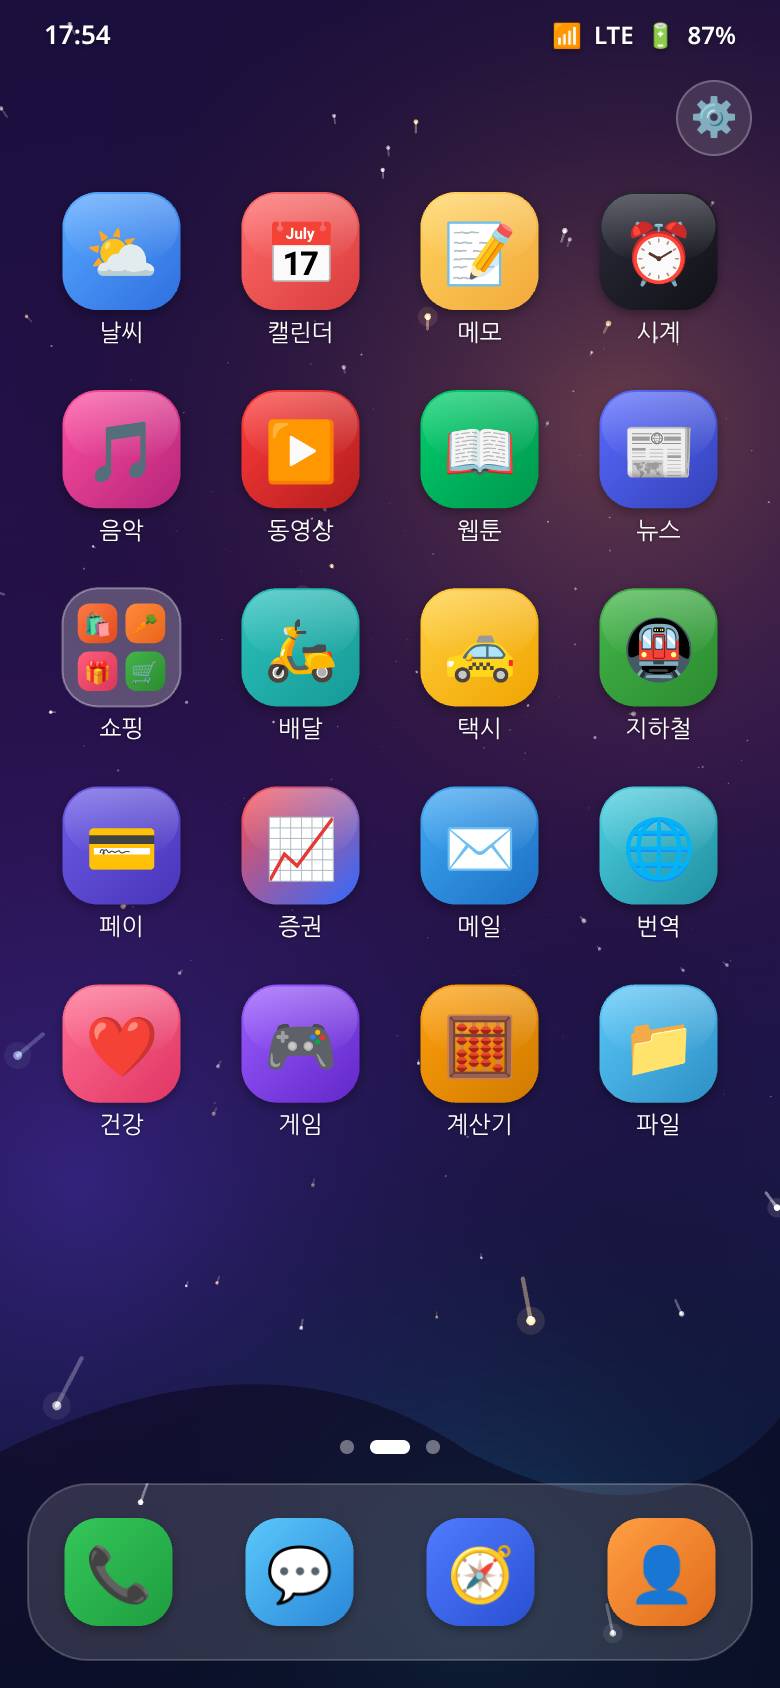
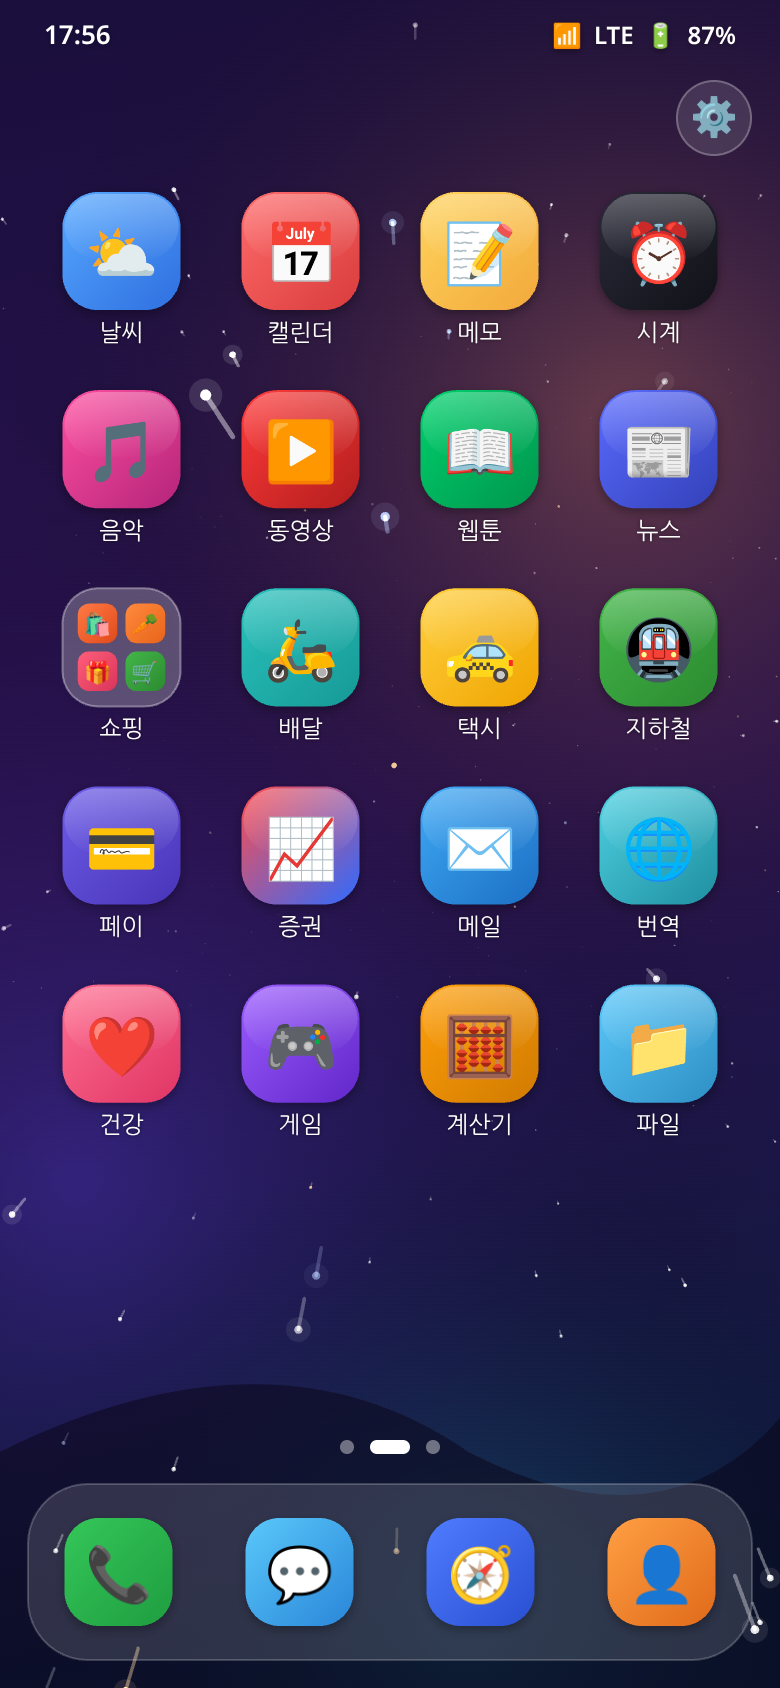
v5: 폴더 열면 회전 캐러셀(관성·스냅, 아래로 내려 닫기), 폴더당 6~8개 앱

diff --git a/index.html b/index.html
@@ -7,7 +7,7 @@
 <meta http-equiv="Cache-Control" content="no-cache, no-store, must-revalidate">
 <meta http-equiv="Pragma" content="no-cache">
 <meta http-equiv="Expires" content="0">
-<title>뉴니버스 · 모래 전환 시제품 v4</title>
+<title>뉴니버스 · 모래 전환 시제품 v5</title>
 <style>
   *{box-sizing:border-box;-webkit-tap-highlight-color:transparent;margin:0;padding:0}
   html,body{height:100%;background:#05040d;overflow:hidden;font-family:system-ui,-apple-system,"Noto Sans KR","Apple SD Gothic Neo","Malgun Gothic",sans-serif;color:#fff;overscroll-behavior:none}
@@ -47,6 +47,20 @@
   #stats{font-size:11px;color:#8e88b0;margin-top:12px;text-align:center}
   #hint{position:absolute;left:0;right:0;text-align:center;font-size:12px;color:rgba(255,255,255,.75);z-index:5;pointer-events:none;transition:opacity 1s}
   #hint-desktop{display:none;position:fixed;bottom:12px;left:0;right:0;text-align:center;color:#777;font-size:12px}
+  #fold{position:absolute;inset:0;z-index:8;display:none;touch-action:none}
+  #fold .bd{position:absolute;inset:0;background:rgba(8,6,22,.45);backdrop-filter:blur(16px);-webkit-backdrop-filter:blur(16px);opacity:0;transition:opacity .35s}
+  #fold.open .bd{opacity:1}
+  #fold .wrap{position:absolute;inset:0;transition:transform .42s cubic-bezier(.2,.9,.25,1.05),opacity .3s;opacity:0}
+  #fold.open .wrap{opacity:1}
+  #fold h2{position:absolute;left:0;right:0;top:20%;text-align:center;font-size:24px;font-weight:700;text-shadow:0 2px 10px rgba(0,0,0,.5)}
+  #fold .stage{position:absolute;left:0;right:0;top:50%;height:0;perspective:900px}
+  #fold .cd{position:absolute;left:50%;top:0;width:150px;height:150px;margin:-75px 0 0 -75px;border-radius:40px;display:flex;align-items:center;justify-content:center;font-size:76px;box-shadow:0 18px 40px rgba(0,0,0,.45);will-change:transform,opacity;backface-visibility:hidden}
+  #fold .cd::after{content:'';position:absolute;inset:0;border-radius:inherit;background:linear-gradient(rgba(255,255,255,.3),rgba(255,255,255,0) 55%);pointer-events:none}
+  #fold .lbl{position:absolute;left:0;right:0;top:calc(50% + 110px);text-align:center;font-size:19px;font-weight:600;text-shadow:0 2px 8px rgba(0,0,0,.6)}
+  #fold .fdots{position:absolute;left:0;right:0;top:calc(50% + 148px);display:flex;justify-content:center;gap:6px}
+  #fold .fdots i{width:6px;height:6px;border-radius:3px;background:rgba(255,255,255,.35);transition:all .2s}
+  #fold .fdots i.on{background:#fff;width:16px}
+  #fold .tip{position:absolute;left:0;right:0;bottom:16%;text-align:center;font-size:12px;color:rgba(255,255,255,.6)}
   #nogl{position:absolute;inset:0;display:none;align-items:center;justify-content:center;text-align:center;padding:30px;z-index:20;background:#0b0820}
 </style>
 </head>
@@ -60,6 +74,7 @@
   <div id="hint">← 화면을 옆으로 밀어보세요 →</div>
   <div id="dots"><i class="on"></i><i></i><i></i></div>
   <div id="safe" style="position:absolute;visibility:hidden;padding-bottom:env(safe-area-inset-bottom)"></div>
+  <div id="fold"><div class="bd"></div><div class="wrap"><h2></h2><div class="stage"></div><div class="lbl"></div><div class="fdots"></div><div class="tip">좌우로 휙 돌려보세요 · 아래로 내리거나 바깥을 누르면 닫혀요</div></div></div>
   <div id="toast"></div>
   <div id="sheet">
     <h3>모래 전환 설정 <button id="close">✕</button></h3>
@@ -87,7 +102,7 @@ const $=id=>document.getElementById(id);
 // ---------- 설정 ----------
 const DEF={style:'wind',wind:1.0,size:2.0,turb:1.0,dur:1.7,glow:0.5,star:0.6};
 let S=Object.assign({},DEF);
-try{Object.assign(S,JSON.parse(localStorage.getItem('nv_sand4')||'{}'))}catch(e){}
+try{Object.assign(S,JSON.parse(localStorage.getItem('nv_sand5')||'{}'))}catch(e){}
 const weak=(navigator.hardwareConcurrency||4)<=4||(navigator.deviceMemory||4)<=3;
 let CAP=weak?40000:90000;
 
@@ -96,17 +111,17 @@ const A=(n,e,c1,c2,t)=>({n,e,c1,c2,t});
 const F=(n,items)=>({n,folder:true,items});
 const PAGES=[
   {widget:true,apps:[
-    A('카카오톡','💬','#FEE500','#F5C800','#3a1d1d'),A('네이버','N','#03C75A','#02a84b'),F('금융',[A('은행','🏦','#2f6bff','#1946c7'),A('페이','💳','#6c5ce7','#4834b8'),A('증권','📈','#ff4d4d','#2f6bff'),A('보험','🛡','#26a69a','#00796b')]),A('정부24','🏛','#3a7bd5','#1d4f9a'),
+    A('카카오톡','💬','#FEE500','#F5C800','#3a1d1d'),A('네이버','N','#03C75A','#02a84b'),F('금융',[A('은행','🏦','#2f6bff','#1946c7'),A('페이','💳','#6c5ce7','#4834b8'),A('증권','📈','#ff4d4d','#2f6bff'),A('보험','🛡','#26a69a','#00796b'),A('카드','💳','#ff7a45','#e04a1a'),A('가계부','📒','#43b649','#2b8a30'),A('환전','💱','#4dd0e1','#1f8fa0'),A('코인','🪙','#ffca28','#ff8f00','#222')]),A('정부24','🏛','#3a7bd5','#1d4f9a'),
     A('카메라','📷','#4a4a55','#26262e'),A('사진','🖼','#ff9a62','#ff5e7a'),A('지도','🗺','#34c3a0','#1a8c74'),A('설정','⚙','#8e8e99','#5d5d69')]},
   {apps:[
     A('날씨','⛅','#56a8ff','#2f6fe0'),A('캘린더','📅','#ff6b6b','#d93c3c'),A('메모','📝','#ffd45e','#f2a93b'),A('시계','⏰','#2b2b3a','#111118'),
     A('음악','🎵','#ff4fa0','#b4247a'),A('동영상','▶','#ff3b3b','#b31d1d'),A('웹툰','📖','#00d06c','#00964d'),A('뉴스','📰','#5a6bff','#3341b8'),
-    F('쇼핑',[A('쇼핑','🛍','#ff7a45','#e04a1a'),A('중고거래','🥕','#ff8a3d','#e8641a'),A('선물','🎁','#ff5e7a','#d9345a'),A('장보기','🛒','#43b649','#2b8a30')]),A('배달','🛵','#2ac1bc','#169a96'),A('택시','🚕','#ffcf3d','#f0a400','#222'),A('지하철','🚇','#43b649','#2b8a30'),
+    F('쇼핑',[A('쇼핑','🛍','#ff7a45','#e04a1a'),A('중고거래','🥕','#ff8a3d','#e8641a'),A('선물','🎁','#ff5e7a','#d9345a'),A('장보기','🛒','#43b649','#2b8a30'),A('패션','👗','#9b5cff','#6227c9'),A('뷰티','💄','#ff6f91','#e03565'),A('가구','🛋','#a1887f','#6d4c41')]),A('배달','🛵','#2ac1bc','#169a96'),A('택시','🚕','#ffcf3d','#f0a400','#222'),A('지하철','🚇','#43b649','#2b8a30'),
     A('페이','💳','#6c5ce7','#4834b8'),A('증권','📈','#ff4d4d','#2f6bff'),A('메일','✉','#3fa9f5','#1c6fc4'),A('번역','🌐','#4dd0e1','#1f8fa0'),
     A('건강','❤','#ff6f91','#e03565'),A('게임','🎮','#9b5cff','#6227c9'),A('계산기','🧮','#ff9f0a','#d07a00'),A('파일','📁','#5ac8fa','#2e8fc4')]},
   {card:true,apps:[
     A('병원예약','🏥','#4fc3f7','#1e88c7'),A('학교','🎓','#7e57c2','#4d2c91'),A('국민연금','🪙','#26a69a','#00796b'),A('주민센터','🏢','#78909c','#455a64'),
-    A('녹음','🎙','#ef5350','#b71c1c'),F('도구',[A('손전등','🔦','#ffca28','#ff8f00','#222'),A('스캐너','📄','#66bb6a','#2e7d32'),A('나침반','🧭','#4f7cff','#2a4fd1'),A('자','📏','#ffd45e','#f2a93b')]),A('뉴니버스','🌌','#e6b85c','#7b3fe4')]}
+    A('녹음','🎙','#ef5350','#b71c1c'),F('도구',[A('손전등','🔦','#ffca28','#ff8f00','#222'),A('스캐너','📄','#66bb6a','#2e7d32'),A('나침반','🧭','#4f7cff','#2a4fd1'),A('자','📏','#ffd45e','#f2a93b'),A('녹화','📹','#ef5350','#b71c1c'),A('타이머','⏱','#5ac8fa','#2e8fc4')]),A('뉴니버스','🌌','#e6b85c','#7b3fe4')]}
 ];
 const DOCK=[A('전화','📞','#34c759','#1f9d40'),A('메시지','💬','#5ac8fa','#2a86d9'),A('인터넷','🧭','#4f7cff','#2a4fd1'),A('연락처','👤','#ff9f43','#e06a1a')];
 
@@ -197,7 +212,7 @@ function renderPage(pi){
   const top=gridTop(pi);
   P.apps.forEach((a,i)=>{
     const col=i%cols,row=(i/cols)|0,x=pad+col*cw+(cw-s)/2,y=top+row*rowH;
-    (a.folder?drawFolder:drawIcon)(c,a,x,y,s);hitRects[pi].push({x,y,w:s,h:s+24,n:a.folder?`${a.n} 폴더 (${a.items.map(i=>i.n).join('·')})`:a.n});
+    (a.folder?drawFolder:drawIcon)(c,a,x,y,s);hitRects[pi].push({x,y,w:s,h:s+24,n:a.n,f:a.folder?a:null});
   });
   const dt=dockTop(),dx=14,dw=W-28,dh=88;
   c.save();rr(c,dx,dt,dw,dh,30);c.fillStyle='rgba(255,255,255,.14)';c.fill();c.strokeStyle='rgba(255,255,255,.2)';c.lineWidth=1;c.stroke();c.restore();
@@ -623,7 +638,7 @@ function setDots(){[...$('dots').children].forEach((d,i)=>d.classList.toggle('on
 // ---------- 입력 ----------
 let sx=0,sy=0,lx=0,lt=0,vx=0,moved=false,crossed=false,pid=null;
 phone.addEventListener('pointerdown',e=>{
-  if(e.target.closest('#sheet,#gear'))return;
+  if(e.target.closest('#sheet,#gear,#fold'))return;
   if($('sheet').classList.contains('open')){toggleSheet(false);return}
   if(anim){anim.t0=-1e9;loop(performance.now())}
   pid=e.pointerId;phone.setPointerCapture(pid);
@@ -652,11 +667,82 @@ phone.addEventListener('pointerup',up);phone.addEventListener('pointercancel',up
 function tap(e){
   const r=phone.getBoundingClientRect(),x=e.clientX-r.left,y=e.clientY-r.top;
   const h=(hitRects[cur]||[]).find(o=>x>=o.x&&x<=o.x+o.w&&y>=o.y&&y<=o.y+o.h);
-  if(h)toast(`${h.n} · 시제품이라 아직 열리지 않아요`);
+  if(h&&h.f)openFolder(h.f,h);else if(h)toast(`${h.n} · 시제품이라 아직 열리지 않아요`);
 }
 let tt=0;function toast(m){const el=$('toast');el.textContent=m;el.classList.add('show');clearTimeout(tt);tt=setTimeout(()=>el.classList.remove('show'),1600)}
 
-// 도크
+// ---------- 폴더: 회전 캐러셀 ----------
+const FO=$('fold'),FW=FO.querySelector('.wrap'),FSTG=FO.querySelector('.stage'),FL=FO.querySelector('.lbl'),FD=FO.querySelector('.fdots');
+let fItems=[],fCards=[],fPos=0,fVel=0,fTarget=0,fRaf=0,fOpen=false,fDrag=null,fLastIdx=-1;
+const SP=()=>Math.min(150,W*0.34);
+function openFolder(f,r){
+  fItems=f.items;FSTG.innerHTML='';FD.innerHTML='';
+  fCards=fItems.map((a,i)=>{const d=document.createElement('div');d.className='cd';d.style.background=`linear-gradient(135deg,${a.c1},${a.c2})`;
+    d.innerHTML=/^[A-Za-z]$/.test(a.e)?`<b style="font:900 80px ${FONT};color:${a.t||'#fff'}">${a.e}</b>`:a.e;FSTG.appendChild(d);FD.appendChild(document.createElement('i'));return d});
+  FO.querySelector('h2').textContent=f.n;
+  fPos=fTarget=0;fVel=0;fLastIdx=-1;renderCards();
+  const cx=r.x+r.w/2-W/2,cy=r.y+r.w/2-H/2;
+  FO._from=`translate(${cx}px,${cy}px) scale(.18)`;FW.style.transform=FO._from;
+  FO.style.display='block';void FO.offsetWidth;FO.classList.add('open');FW.style.transform='none';fOpen=true;
+}
+function closeFolder(){
+  if(!fOpen)return;fOpen=false;FO.classList.remove('open');
+  FW.style.transform=FO._from;
+  setTimeout(()=>{if(!fOpen)FO.style.display='none'},380);
+}
+function renderCards(){
+  const sp=SP();
+  fCards.forEach((d,i)=>{
+    const p=i-fPos,ap=Math.abs(p);
+    const x=Math.sign(p)*(ap<1?ap:1+(ap-1)*0.55)*sp;
+    const sc=1+0.25*Math.max(0,1-ap)-0.08*Math.min(ap,3);
+    const ry=-Math.max(-1.6,Math.min(1.6,p))*32;
+    d.style.transform=`translate3d(${x}px,0,${-Math.min(ap,4)*110}px) rotateY(${ry}deg) scale(${sc})`;
+    d.style.opacity=ap>3.4?0:Math.max(0,1-Math.max(0,ap-2.2)/1.2);
+    d.style.zIndex=100-Math.round(ap*10);
+  });
+  const idx=Math.max(0,Math.min(fItems.length-1,Math.round(fPos)));
+  if(idx!==fLastIdx){fLastIdx=idx;FL.textContent=fItems[idx].n;[...FD.children].forEach((e,i)=>e.classList.toggle('on',i===idx));if(fDrag&&navigator.vibrate)navigator.vibrate(4)}
+}
+function fStep(){
+  fRaf=0;
+  // 스프링: 관성 있게 돌다가 가장 가까운 카드에 착 맞춤
+  const k=0.11,dmp=0.76;fVel=(fVel+(fTarget-fPos)*k)*dmp;fPos+=fVel;
+  renderCards();
+  if(Math.abs(fVel)>0.0005||Math.abs(fTarget-fPos)>0.0005)fRaf=requestAnimationFrame(fStep);else{fPos=fTarget;renderCards()}
+}
+FO.addEventListener('pointerdown',e=>{
+  if(!fOpen)return;FO.setPointerCapture(e.pointerId);cancelAnimationFrame(fRaf);fRaf=0;fVel=0;
+  fDrag={x:e.clientX,y:e.clientY,p0:fPos,lx:e.clientX,lt:e.timeStamp,v:0,moved:false,id:e.pointerId,card:e.target.closest('.cd')};
+});
+FO.addEventListener('pointermove',e=>{
+  if(!fDrag||e.pointerId!==fDrag.id)return;
+  const dx=e.clientX-fDrag.x,dy=e.clientY-fDrag.y;if(Math.abs(dx)>6||Math.abs(dy)>6)fDrag.moved=true;
+  const dt=e.timeStamp-fDrag.lt;if(dt>0)fDrag.v=.6*fDrag.v+.4*((e.clientX-fDrag.lx)/dt);fDrag.lx=e.clientX;fDrag.lt=e.timeStamp;
+  if(dy>0&&dy>Math.abs(dx)){FW.style.transition='none';FW.style.transform=`translateY(${dy*.6}px) scale(${1-Math.min(.25,dy/1200)})`;return}
+  FW.style.transform='';
+  let np=fDrag.p0-dx/SP();const n=fItems.length-1;
+  if(np<0)np=np*.35;if(np>n)np=n+(np-n)*.35;fPos=np;renderCards();
+});
+function fUp(e){
+  if(!fDrag||e.pointerId!==fDrag.id)return;const d=fDrag;fDrag=null;
+  FW.style.transition='';
+  const dx=e.clientX-d.x,dy=e.clientY-d.y;
+  if(dy>90&&dy>Math.abs(dx)){closeFolder();return}
+  FW.style.transform='';
+  if(!d.moved){
+    if(!d.card){closeFolder();return}
+    const i=fCards.indexOf(d.card);
+    if(i===Math.round(fPos))toast(`${fItems[i].n} · 시제품이라 아직 열리지 않아요`);
+    else{fTarget=i;fStep()}
+    return;
+  }
+  const n=fItems.length-1;
+  fTarget=Math.max(0,Math.min(n,Math.round(fPos-d.v*260/SP())));
+  fVel=-d.v*16/SP();fStep();
+}
+FO.addEventListener('pointerup',fUp);FO.addEventListener('pointercancel',fUp);
+
 
 
 // ---------- 설정 패널 ----------
@@ -666,16 +752,16 @@ $('close').onclick=()=>toggleSheet(false);
 const sl={wind:['sWind','vWind',v=>v.toFixed(2)+'×'],size:['sSize','vSize',v=>v.toFixed(1)+'px'],turb:['sTurb','vTurb',v=>v.toFixed(2)],dur:['sDur','vDur',v=>v.toFixed(1)+'초'],star:['sStar','vStar',v=>v.toFixed(2)+'×'],glow:['sGlow','vGlow',v=>v.toFixed(2)]};
 let sizeTimer=0;
 function syncSeg(){[...$('styleSeg').children].forEach(b=>b.classList.toggle('on',b.dataset.s===S.style))}
-$('styleSeg').onclick=e=>{const b=e.target.closest('button');if(!b)return;S.style=b.dataset.s;syncSeg();try{localStorage.setItem('nv_sand4',JSON.stringify(S))}catch(_){}};
+$('styleSeg').onclick=e=>{const b=e.target.closest('button');if(!b)return;S.style=b.dataset.s;syncSeg();try{localStorage.setItem('nv_sand5',JSON.stringify(S))}catch(_){}};
 function syncUI(){syncSeg();for(const k in sl){$(sl[k][0]).value=S[k];$(sl[k][1]).textContent=sl[k][2](S[k])}}
 for(const k in sl){$(sl[k][0]).addEventListener('input',e=>{S[k]=parseFloat(e.target.value);$(sl[k][1]).textContent=sl[k][2](S[k]);
-  try{localStorage.setItem('nv_sand4',JSON.stringify(S))}catch(_){}
+  try{localStorage.setItem('nv_sand5',JSON.stringify(S))}catch(_){}
   if(k==='size'){clearTimeout(sizeTimer);sizeTimer=setTimeout(()=>{buildParticles();draw()},150)}})}
-$('reset').onclick=()=>{S=Object.assign({},DEF);syncUI();try{localStorage.removeItem('nv_sand4')}catch(_){}buildParticles();draw()};
+$('reset').onclick=()=>{S=Object.assign({},DEF);syncUI();try{localStorage.removeItem('nv_sand5')}catch(_){}buildParticles();draw()};
 $('demo').onclick=()=>{if(anim)return;const to=cur<2?cur+1:cur-1;go(to,to>cur?-1:1)};
-function updateStats(){$('stats').textContent=`v4 · 모래알 ${counts[cur]?counts[cur].toLocaleString('ko-KR'):0}개 · 알갱이 ${cell}px · 최근 ${Math.round(lastFps)}fps${weak?' · 절약 모드':''}`}
+function updateStats(){$('stats').textContent=`v5 · 모래알 ${counts[cur]?counts[cur].toLocaleString('ko-KR'):0}개 · 알갱이 ${cell}px · 최근 ${Math.round(lastFps)}fps${weak?' · 절약 모드':''}`}
 syncUI();
-window.__nv={pose:(to,d,tt)=>{target=to;dir=d;t=tt;draw()},cur:()=>cur};
+window.__nv={pose:(to,d,tt)=>{target=to;dir=d;t=tt;draw()},cur:()=>cur,hits:()=>hitRects[cur]};
 
 // ---------- 시계 ----------
 function tick(){
